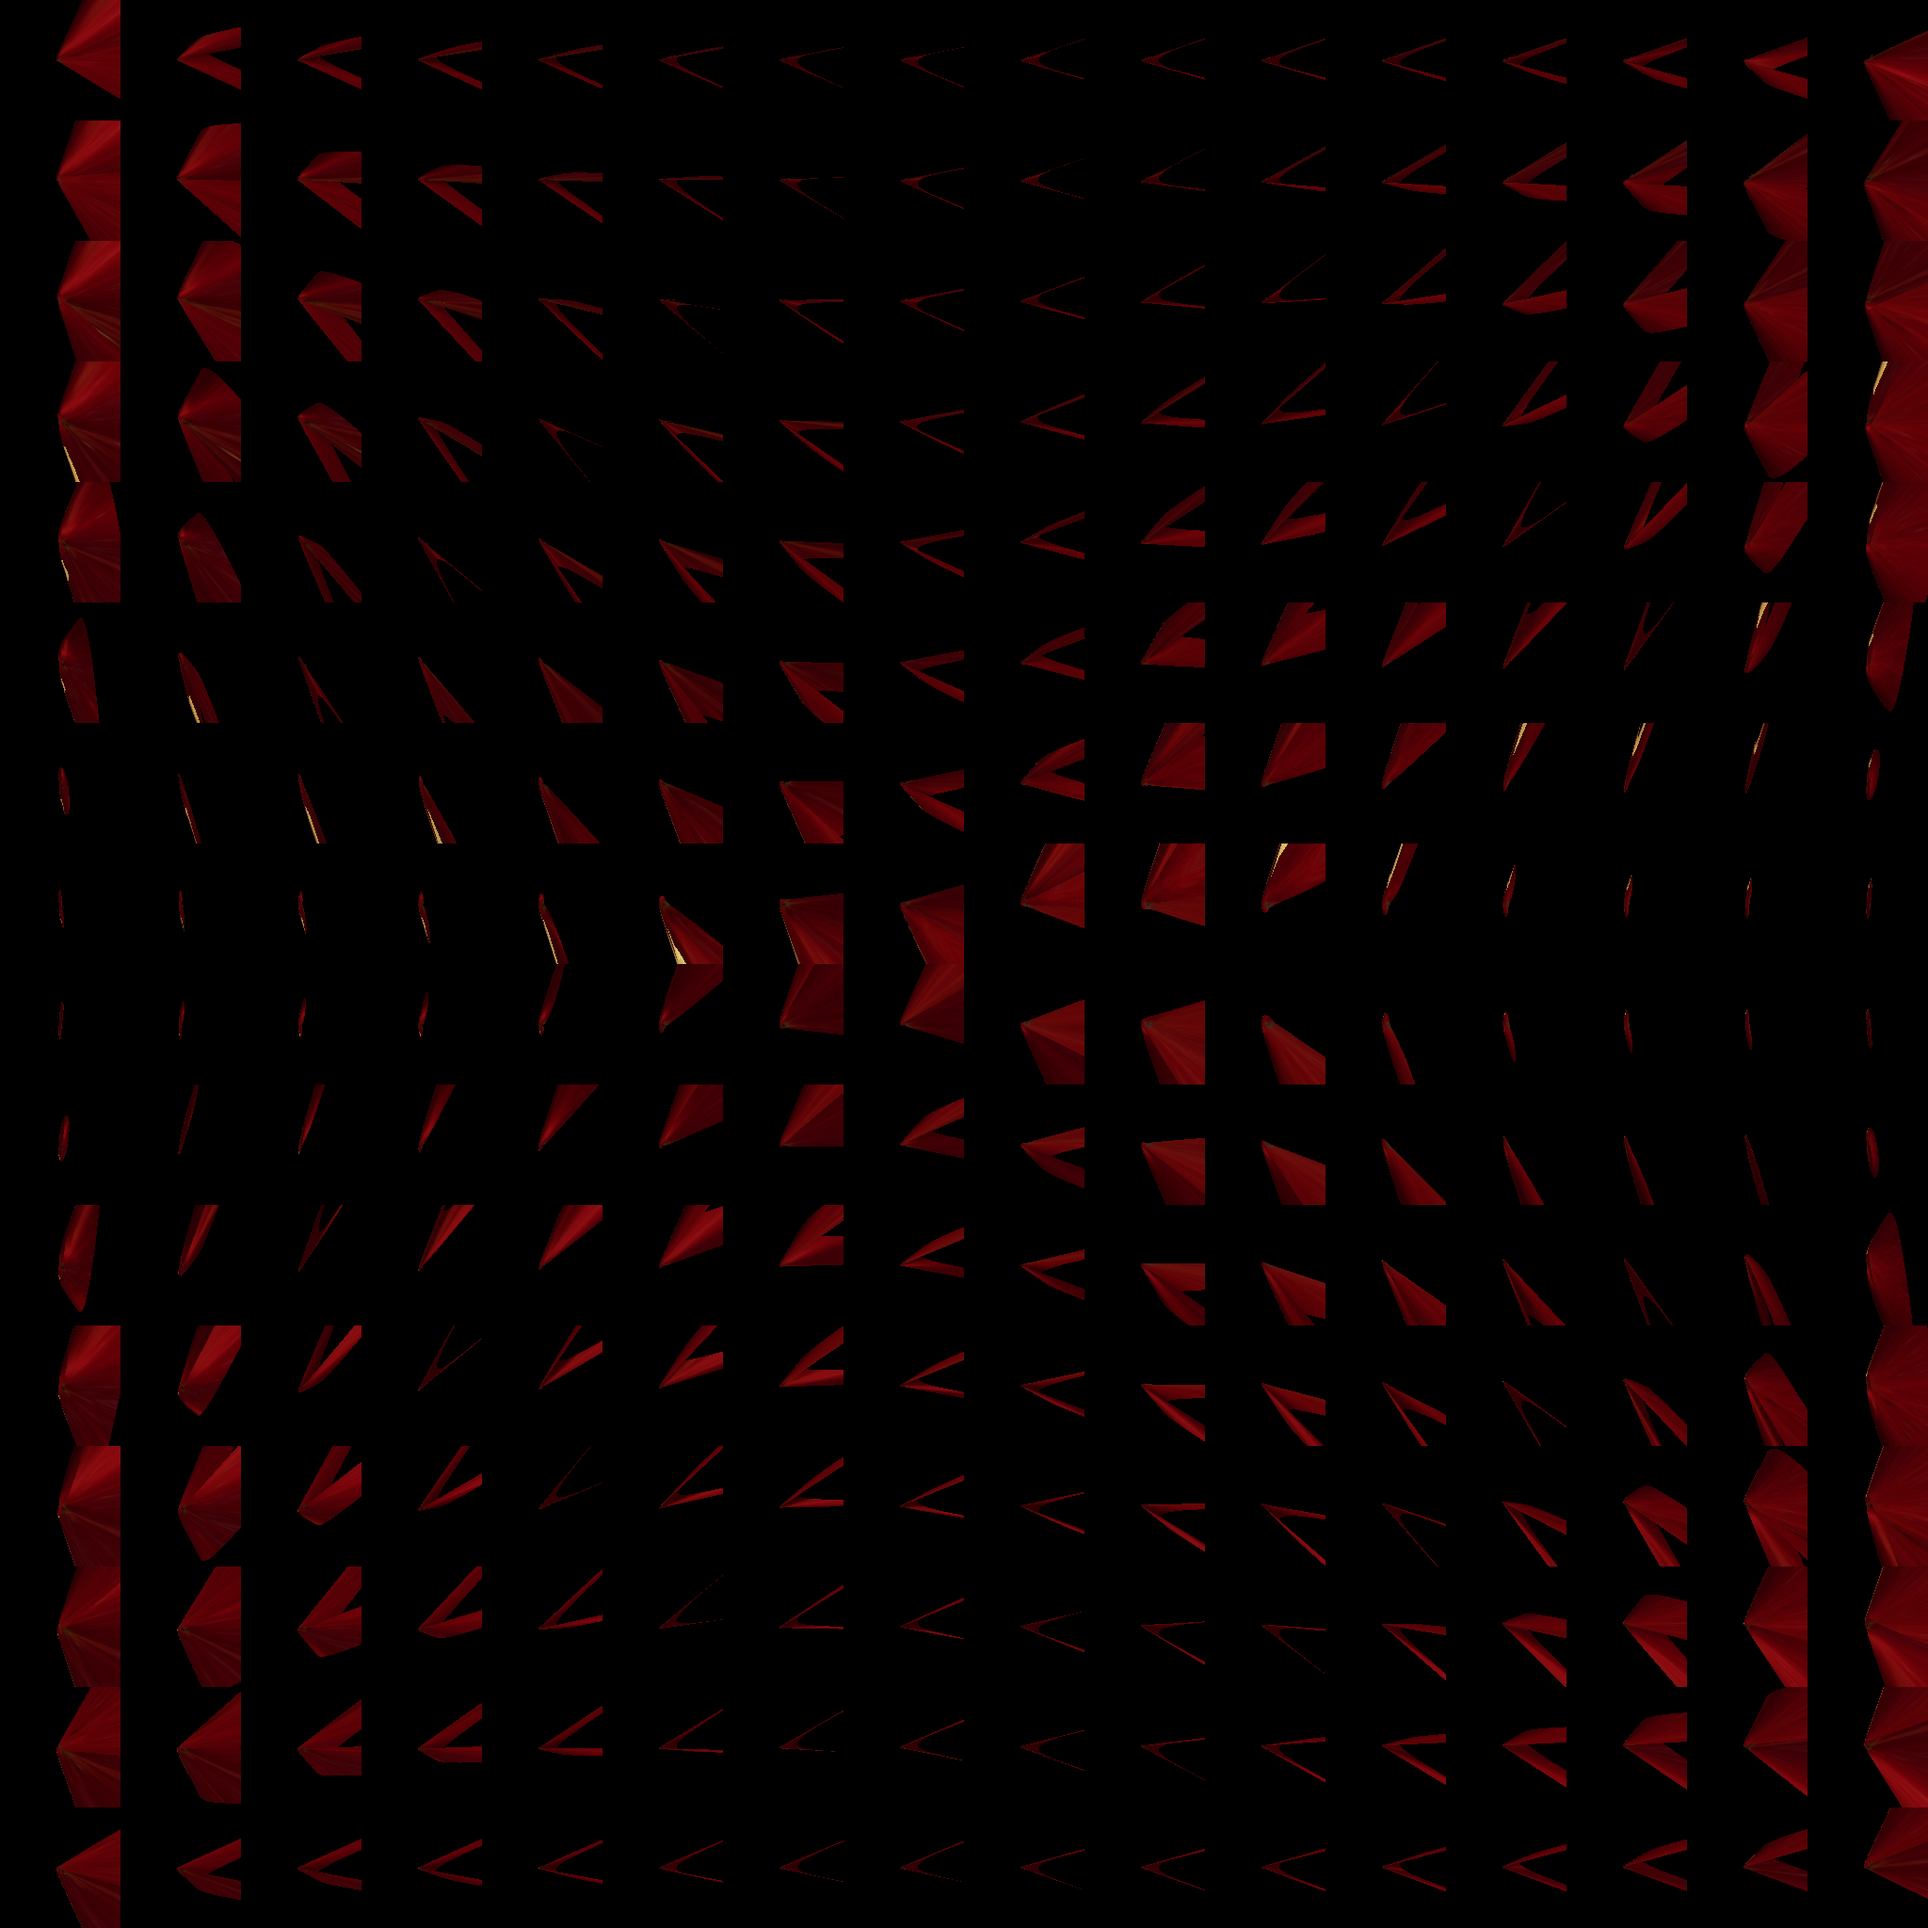
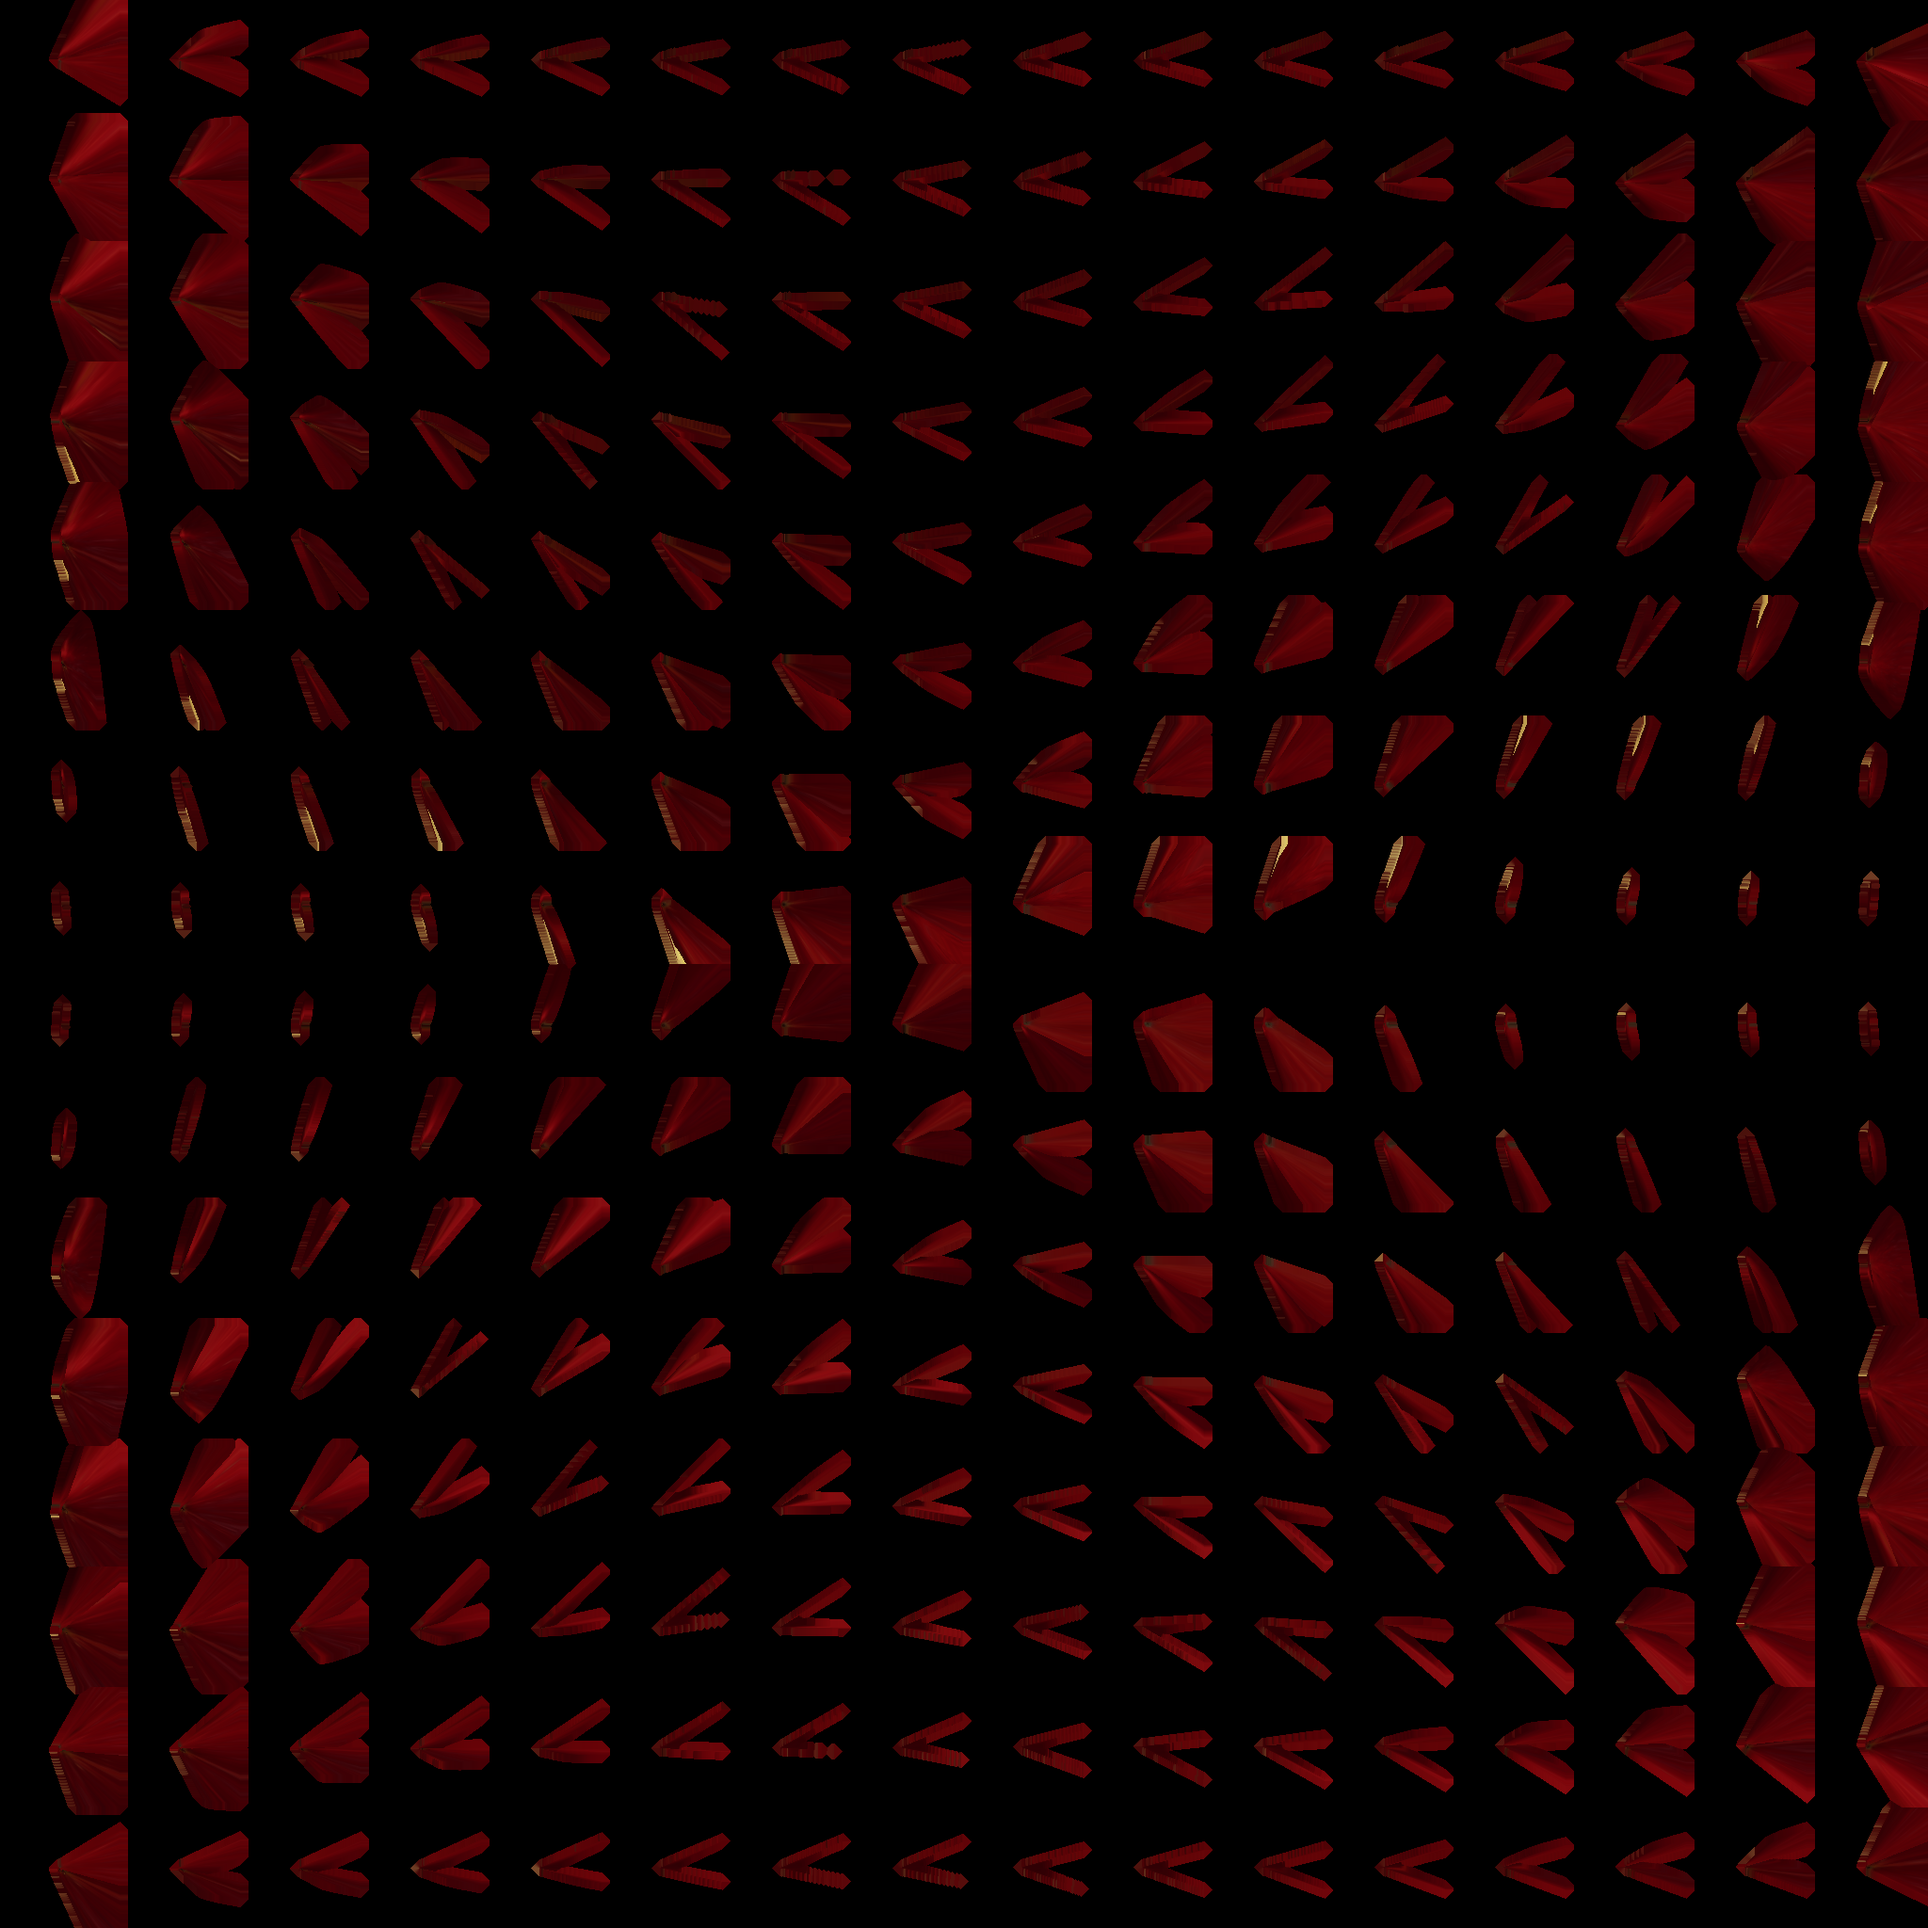
Fix:: imposter billboard

diff --git a/week_05/PerformanceEngine/Source/Renderer/SceneRenderer.cpp b/week_05/PerformanceEngine/Source/Renderer/SceneRenderer.cpp
@@ -189,8 +189,8 @@ float4 PSMain(PSInput Input) : SV_Target
 
 	struct VS_OUT {
 		float4 Pos      : SV_POSITION;
-		float2 LocalUV  : TEXCOORD0;  // 쿼드 내 UV (0~1, 정점마다 다름)
-		float2 GridPosF : TEXCOORD1;  // 연속적 그리드 좌표 (인스턴스마다 같음)
+		float2 LocalUV  : TEXCOORD0;  
+		float2 GridPosF : TEXCOORD1;  
 	};
 
 	float2 SignNotZero(float2 v) { return float2(v.x >= 0.0 ? 1.0 : -1.0, v.y >= 0.0 ? 1.0 : -1.0); }
@@ -206,12 +206,14 @@ float4 PSMain(PSInput Input) : SV_Target
 		uint RealIndex = ImpostorIndices[InstanceID];
 		InstanceData data = AllInstances[RealIndex];
 
-		float3 worldPos = mul(float4(0.0f, 0.0f, 0.0f, 1.0f), data.WorldMatrix).xyz;
-		float3 dirToCamera = normalize(CameraPos.xyz - worldPos);
+		float3 worldCenter = mul(float4(0.0f, 0.0f, 0.0f, 1.0f), data.WorldMatrix).xyz;
+		float3 dirToCameraWorld = normalize(CameraPos.xyz - worldCenter);
+		float3 dirToCameraLocal = normalize(mul((float3x3)data.WorldMatrix, dirToCameraWorld));
+
 		float3 upGuide = float3(0, 1, 0);
-		if (abs(dirToCamera.y) > 0.999f) { upGuide = float3(0, 0, 1); }
-		float3 right = normalize(cross(upGuide, dirToCamera));
-		float3 up = cross(dirToCamera, right);
+		if (abs(dirToCameraWorld.y) > 0.999f) { upGuide = float3(0, 0, 1); }
+		float3 right = normalize(cross(upGuide, dirToCameraWorld));
+		float3 up = normalize(cross(dirToCameraWorld, right));
 
 		float2 quadPos;
 		quadPos.x = (VertexID % 2) ? 1.0 : -1.0;
@@ -220,47 +222,51 @@ float4 PSMain(PSInput Input) : SV_Target
 		Out.LocalUV.x = (VertexID % 2) ? 1.0 : 0.0;
 		Out.LocalUV.y = (VertexID / 2) ? 1.0 : 0.0;
 
-		// 연속적 그리드 좌표를 PS에 넘김 (floor 하지 않음)
-		float2 octPos = OctEncode(dirToCamera);
+		float2 octPos = OctEncode(dirToCameraLocal);
 		float2 atlasUV = octPos * 0.5 + 0.5;
 		float2 gridPosF = atlasUV * 16.0;
-		gridPosF.y = 16.0 - gridPosF.y; // Y 뒤집기
+		gridPosF.y = 16.0 - gridPosF.y; 
 		Out.GridPosF = gridPosF;
 
 		float radius = max(data.Extents.x, max(data.Extents.y, data.Extents.z));
 		float scale = radius * 2.0f;
 		if (scale < 0.1f) scale = 2.0f;
 
-		worldPos += (right * quadPos.x * scale) + (up * quadPos.y * scale);
-		Out.Pos = mul(float4(worldPos, 1.0), ViewProj);
+		float3 finalWorldPos = worldCenter + (right * quadPos.x * scale) + (up * quadPos.y * scale);
+		Out.Pos = mul(float4(finalWorldPos, 1.0), ViewProj);
+		
 		return Out;
 	}
 
 	float4 SampleTile(float2 gridCell, float2 localUV) {
-		// 타일 1개 샘플링 (경계 안전하게 클램프)
 		float2 g = clamp(gridCell, 0.0, 15.0);
-		// 타일 내부 UV에 반픽셀 마진 → 인접 타일 색 블리딩 방지
-		float2 safeUV = clamp(localUV, 0.02, 0.98);
+		float2 safeUV = clamp(localUV, 0.02, 0.98); 
 		float2 uv = (g + safeUV) / 16.0;
 		return AlbedoAtlas.Sample(LinearSampler, uv);
 	}
 
 	float4 PSMain(VS_OUT In) : SV_Target {
-		float2 gf = In.GridPosF - 0.5; // 타일 중심 기준으로 오프셋
-		float2 g00 = floor(gf);         // 좌하단 타일
-		float2 blend = frac(gf);        // 블렌딩 가중치
+		float2 gf = In.GridPosF - 0.5; 
+		float2 g00 = floor(gf);         
+		float2 blend = frac(gf);        
 
-		// 인접 4개 타일 샘플링
 		float4 c00 = SampleTile(g00,                    In.LocalUV);
 		float4 c10 = SampleTile(g00 + float2(1.0, 0.0), In.LocalUV);
 		float4 c01 = SampleTile(g00 + float2(0.0, 1.0), In.LocalUV);
 		float4 c11 = SampleTile(g00 + float2(1.0, 1.0), In.LocalUV);
 
-		// 바이리니어 블렌딩
 		float4 color = lerp(lerp(c00, c10, blend.x), lerp(c01, c11, blend.x), blend.y);
 
-		float luminance = dot(color.rgb, float3(0.299, 0.587, 0.114));
-		clip(color.a * luminance - 0.08);
+		// [핵심 해결책] 배경의 검은색(0,0,0)이 블렌딩되면서 생긴 테두리 어두워짐 현상 제거
+		// RGB를 Alpha로 나누어 원래 색상으로 강제 복원합니다.
+		if (color.a > 0.001f) {
+			color.rgb /= color.a;
+		}
+
+		// 경계선 컷오프를 0.5로 올려서 투명해지기 시작하는 지저분한 픽셀을 과감히 잘라냄
+		clip(color.a - 0.5f);
+		
+		color.rgb = pow(abs(color.rgb), 1.0 / 2.2);
 
 		return color;
 	}
@@ -543,7 +549,6 @@ void FSceneRenderer::RenderPrimitives(
 	ID3D11DeviceContext* DeviceContext = InRHI.GetDeviceContext();
 	const TArray<FScenePrimitiveRuntimeData>& PrimitiveRuntimeData = InScene.GetPrimitiveRuntimeData();
 
-
 	FVector CameraPos = InCamera.GetLocation();
 	TArray<uint32> MeshInstanceIndices;
 	std::unordered_map<FStaticMesh*, TArray<uint32>> ImpostorBatches;
@@ -553,9 +558,12 @@ void FSceneRenderer::RenderPrimitives(
 		if (PrimitiveIndex >= PrimitiveRuntimeData.size()) continue;
 
 		const FScenePrimitiveRuntimeData& PrimitiveData = PrimitiveRuntimeData[PrimitiveIndex];
+
+		// 메쉬 중심점과 카메라 사이의 절대 거리를 구합니다.
 		float Distance = FVector::Dist(PrimitiveData.WorldBounds.GetCenter(), CameraPos);
 
-		if (Distance < 40.0f)
+	
+		if (Distance < 100.0f)
 		{
 			MeshInstanceIndices.push_back(PrimitiveIndex);
 		}

diff --git a/week_05/PerformanceEngine/Source/Renderer/ImpostorBaker.cpp b/week_05/PerformanceEngine/Source/Renderer/ImpostorBaker.cpp
@@ -355,6 +355,113 @@ bool FImpostorBaker::Bake(ID3D11DeviceContext* InContext, FStaticMesh* InMesh, c
 		}
 	}
 	InContext->OMSetRenderTargets(0, nullptr, nullptr);
+	TComPtr<ID3D11Device> Device;
+	InContext->GetDevice(Device.GetAddressOf());
+
+	D3D11_TEXTURE2D_DESC TexDesc;
+	AlbedoAtlasTex->GetDesc(&TexDesc);
+	TexDesc.Usage = D3D11_USAGE_STAGING;
+	TexDesc.BindFlags = 0;
+	TexDesc.CPUAccessFlags = D3D11_CPU_ACCESS_READ | D3D11_CPU_ACCESS_WRITE;
+
+	TComPtr<ID3D11Texture2D> StagingTex;
+	if (SUCCEEDED(Device->CreateTexture2D(&TexDesc, nullptr, StagingTex.GetAddressOf())))
+	{
+		// 렌더타겟에서 CPU가 읽고 쓸 수 있는 Staging 버퍼로 복사
+		InContext->CopyResource(StagingTex.Get(), AlbedoAtlasTex.Get());
+
+		D3D11_MAPPED_SUBRESOURCE Mapped;
+		if (SUCCEEDED(InContext->Map(StagingTex.Get(), 0, D3D11_MAP_READ_WRITE, 0, &Mapped)))
+		{
+			uint32_t Width = TexDesc.Width;
+			uint32_t Height = TexDesc.Height;
+			uint32_t Pitch = Mapped.RowPitch / 4; // uint32_t 단위 Pitch
+			uint32_t* Pixels = static_cast<uint32_t*>(Mapped.pData);
+
+			std::vector<uint32_t> Buffer1(Width * Height);
+			std::vector<uint32_t> Buffer2(Width * Height);
+
+			for (uint32_t y = 0; y < Height; ++y)
+			{
+				for (uint32_t x = 0; x < Width; ++x)
+				{
+					Buffer1[y * Width + x] = Pixels[y * Pitch + x];
+				}
+			}
+
+			// 8픽셀 두께만큼 색상을 바깥으로 확장 (충분한 패딩)
+			int DilationPasses = 8;
+			for (int pass = 0; pass < DilationPasses; ++pass)
+			{
+				Buffer2 = Buffer1;
+				for (int y = 0; y < (int)Height; ++y)
+				{
+					for (int x = 0; x < (int)Width; ++x)
+					{
+						uint32_t currentPixel = Buffer1[y * Width + x];
+						uint8_t alpha = (currentPixel >> 24) & 0xFF;
+
+						// 투명한 픽셀일 경우 상하좌우 탐색
+						if (alpha == 0)
+						{
+							uint32_t r = 0, g = 0, b = 0, count = 0;
+
+							auto CheckNeighbor = [&](int nx, int ny) {
+								if (nx >= 0 && nx < (int)Width && ny >= 0 && ny < (int)Height)
+								{
+									uint32_t neighbor = Buffer1[ny * Width + nx];
+									if (((neighbor >> 24) & 0xFF) > 0)
+									{
+										r += neighbor & 0xFF;           // R
+										g += (neighbor >> 8) & 0xFF;    // G
+										b += (neighbor >> 16) & 0xFF;   // B
+										count++;
+									}
+								}
+							};
+
+							CheckNeighbor(x - 1, y);
+							CheckNeighbor(x + 1, y);
+							CheckNeighbor(x, y - 1);
+							CheckNeighbor(x, y + 1);
+
+							// 인접한 색상이 있다면 평균을 내어 현재 픽셀에 채움
+							if (count > 0)
+							{
+								r /= count;
+								g /= count;
+								b /= count;
+								// 다음 패스에서 확장되도록 임시로 알파를 255로 설정
+								Buffer2[y * Width + x] = r | (g << 8) | (b << 16) | (255 << 24);
+							}
+						}
+					}
+				}
+				Buffer1 = Buffer2;
+			}
+
+			// 확장된 색상은 남겨두되, 투명도는 원본 그대로(Alpha=0) 복원하여 저장
+			for (uint32_t y = 0; y < Height; ++y)
+			{
+				for (uint32_t x = 0; x < Width; ++x)
+				{
+					uint32_t originalPixel = Pixels[y * Pitch + x];
+					uint32_t originalAlpha = (originalPixel >> 24) & 0xFF;
+
+					uint32_t dilatedPixel = Buffer1[y * Width + x];
+					uint32_t finalPixel = (dilatedPixel & 0x00FFFFFF) | (originalAlpha << 24);
+
+					Pixels[y * Pitch + x] = finalPixel;
+				}
+			}
+
+			InContext->Unmap(StagingTex.Get(), 0);
+			// 텍스처에 덮어쓰기
+			InContext->CopyResource(AlbedoAtlasTex.Get(), StagingTex.Get());
+		}
+	}
+	// =================================================================================
+
 	std::wstring AlbedoPath = InOutputFilePath + L"_Albedo.png";
 	std::wstring NormalPath = InOutputFilePath + L"_NormalDepth.png";
 
